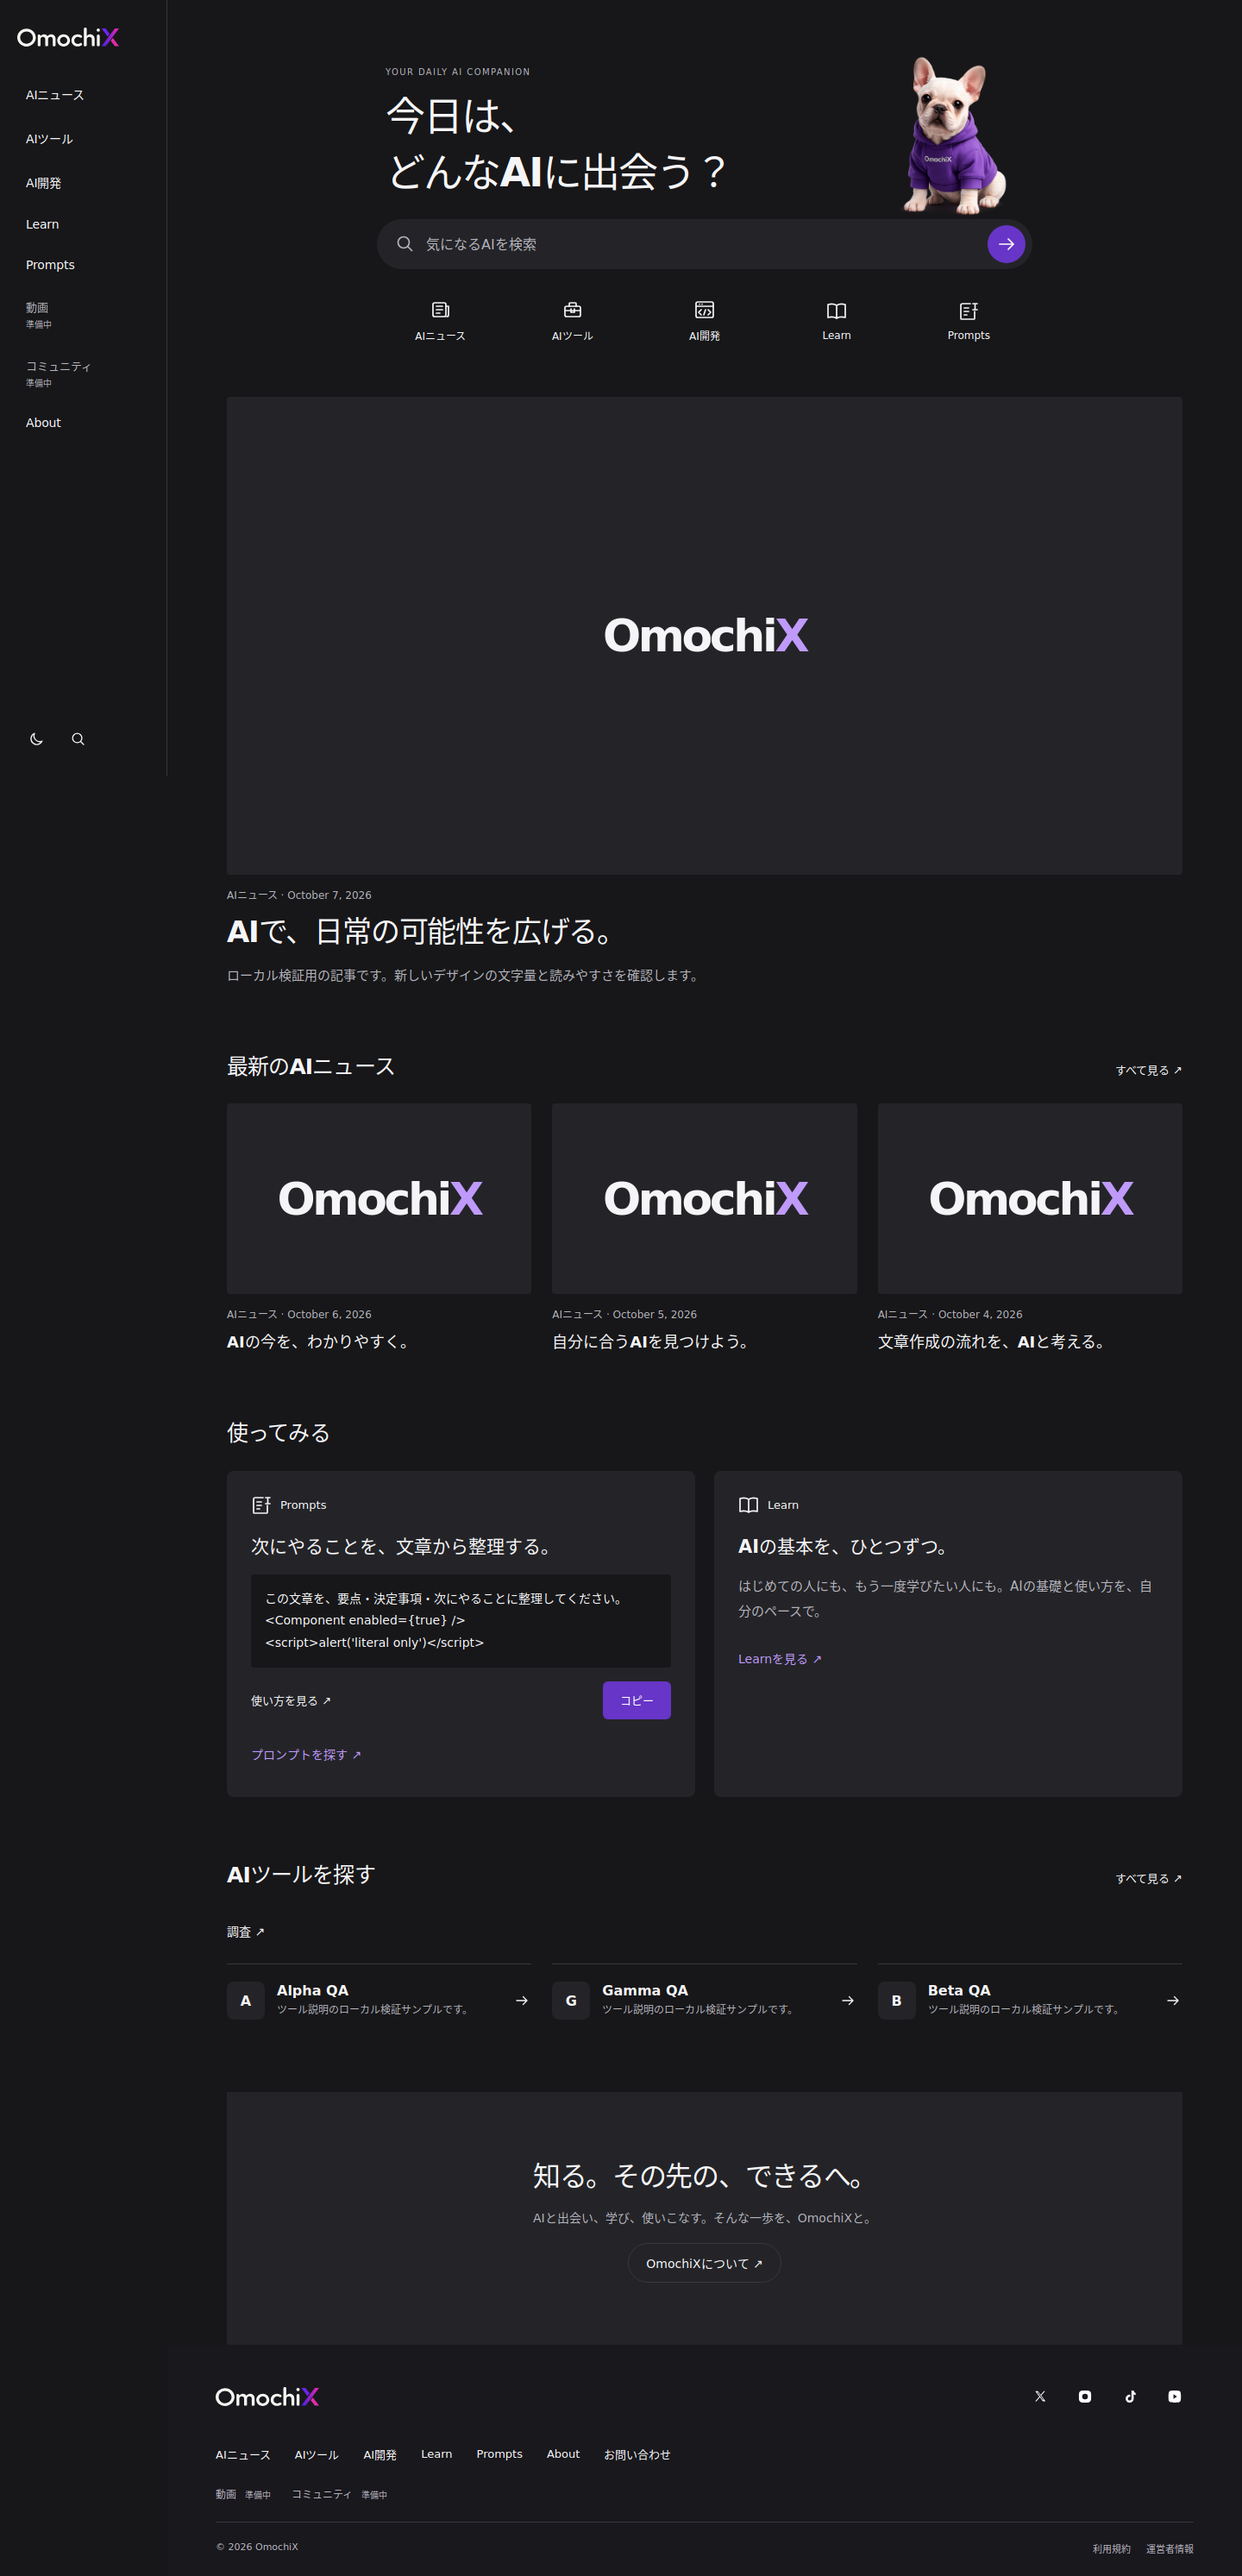
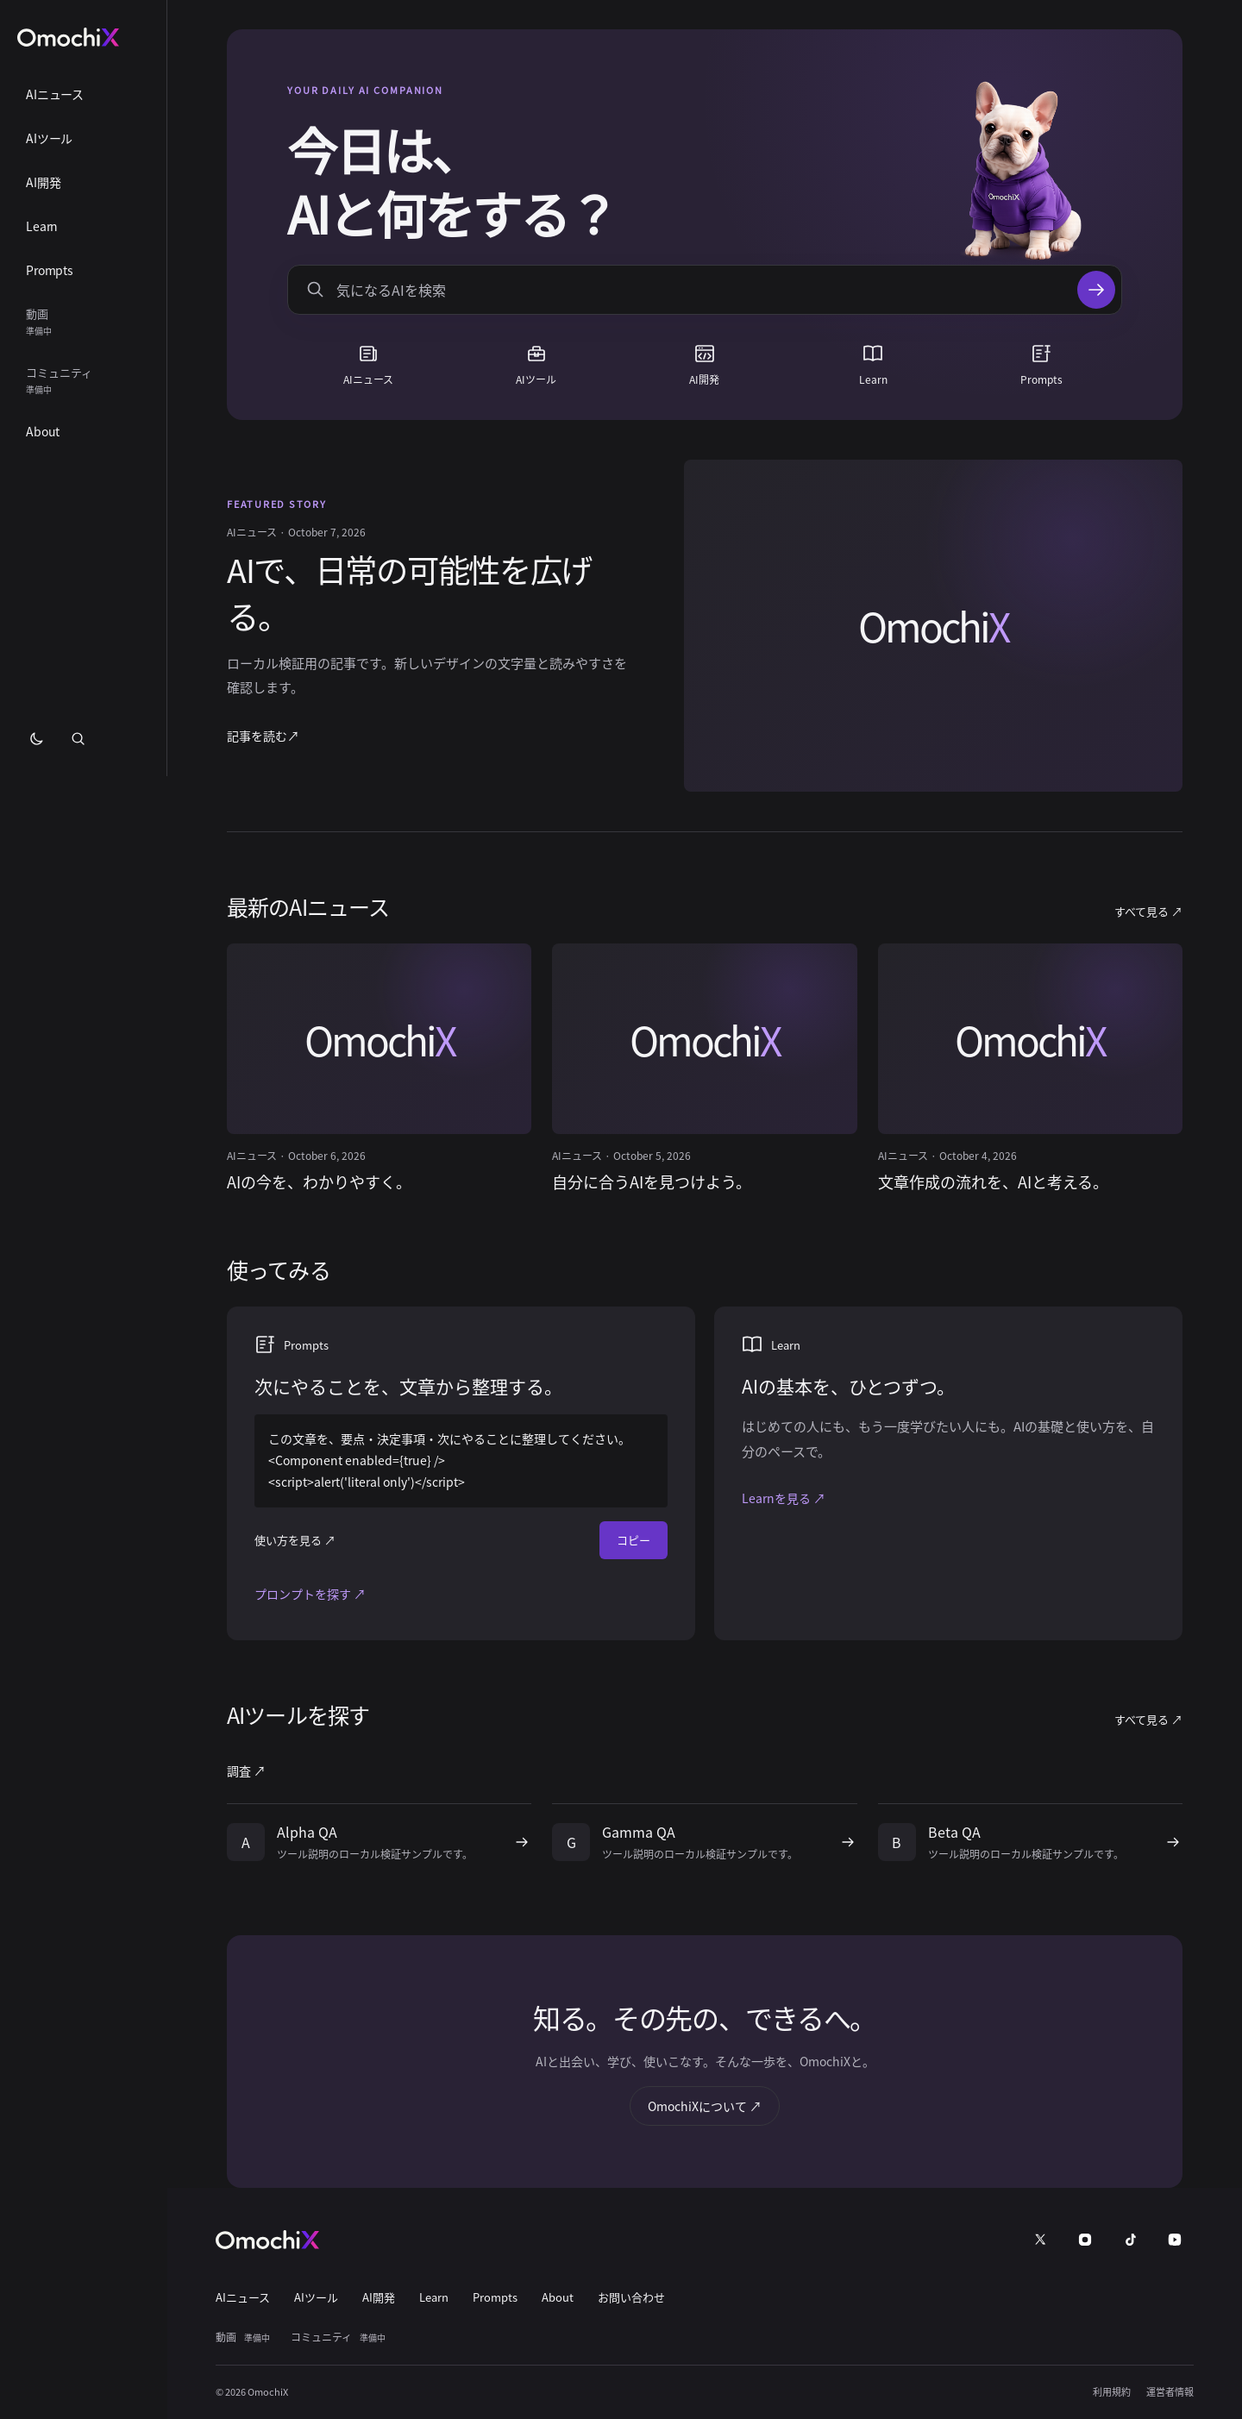
refine homepage hierarchy and mobile hero

diff --git a/wp-theme/omochix-theme/assets/css/editorial-home.css b/wp-theme/omochix-theme/assets/css/editorial-home.css
@@ -3,7 +3,8 @@ body.omx-editorial {
     --ed-bg: #fff;
     --ed-text: #202023;
     --ed-muted: #65656e;
-    --ed-surface: #f5f5f7;
+    --ed-surface: #f6f5f8;
+    --ed-lilac: #f1eafd;
     --ed-line: #e9e9ec;
     --ed-accent: #6735c7;
     background: var(--ed-bg);
@@ -14,7 +15,8 @@ body.omx-editorial {
     --ed-bg: #171719;
     --ed-text: #f5f5f7;
     --ed-muted: #b4b4bd;
-    --ed-surface: #242428;
+    --ed-surface: #242329;
+    --ed-lilac: #292235;
     --ed-line: #37373d;
     --ed-accent: #bf9afa;
 }
@@ -29,38 +31,43 @@ body.omx-editorial {
 .ed-main h1, .ed-main h2, .ed-main h3, .ed-main p { margin: 0; }
 .ed-main a:hover { text-decoration: underline; text-underline-offset: .22em; }
 .ed-main .ed-icon { width: 24px; height: 24px; flex: 0 0 auto; }
-.ed-hero { max-width: 760px; margin: 0 auto; padding: 64px 0 54px; }
-.ed-hero-heading { display: grid; grid-template-columns: minmax(0, 1fr) 160px; align-items: end; gap: 24px; padding: 0 10px; }
-.ed-hero h1 { font-size: clamp(30px, 3.7vw, 46px); line-height: 1.4; font-weight: 560; letter-spacing: -.04em; overflow-wrap: anywhere; padding-bottom: 22px; }
-.ed-eyebrow { font-size: 10px; letter-spacing: .14em; color: var(--ed-muted); margin-bottom: 14px !important; }
-.ed-mascot { display: block; width: 160px; height: 190px; object-fit: contain; object-position: bottom; }
-.ed-search { display: flex; align-items: center; gap: 12px; min-height: 58px; padding: 6px 7px 6px 20px; background: var(--ed-surface); border: 1px solid transparent; border-radius: 32px; }
+.ed-hero { position: relative; max-width: none; margin: 34px auto 0; padding: clamp(30px, 4vw, 58px) clamp(26px, 5vw, 70px) 28px; background: radial-gradient(circle at 81% 18%, rgba(129,78,215,.12), transparent 36%), var(--ed-lilac); border-radius: 18px; overflow: hidden; }
+.ed-hero-heading { display: grid; grid-template-columns: minmax(0, 1fr) 230px; align-items: end; gap: 32px; padding: 0; }
+.ed-hero h1 { font-size: clamp(36px, 4.3vw, 58px); line-height: 1.28; font-weight: 650; letter-spacing: -.04em; overflow-wrap: anywhere; padding-bottom: 22px; }
+.ed-eyebrow { font-size: 11px; letter-spacing: .17em; color: var(--ed-accent); font-weight: 700; margin-bottom: 24px !important; }
+.ed-mascot { display: block; width: 230px; height: 215px; object-fit: contain; object-position: bottom; }
+.ed-search { display: flex; align-items: center; gap: 12px; min-height: 58px; padding: 6px 7px 6px 20px; background: var(--ed-bg); border: 1px solid var(--ed-line); border-radius: 14px; box-shadow: 0 9px 30px rgba(48,25,79,.06); }
 .ed-search:focus-within { border-color: var(--ed-accent); }
 .ed-search > svg { color: var(--ed-muted); width: 20px; }
 .ed-search input { flex: 1; min-width: 0; width: 100%; background: transparent; border: 0; color: var(--ed-text); font-size: 16px; padding: 8px 0; }
 .ed-search input::placeholder { color: var(--ed-muted); opacity: 1; }
 .ed-search button { display: grid; place-items: center; border: 0; border-radius: 50%; width: 44px; height: 44px; flex: 0 0 44px; cursor: pointer; background: #6735c7; color: white; }
-.ed-categories { display: grid; grid-template-columns: repeat(5, minmax(0, 1fr)); margin-top: 26px; gap: 6px; }
-.ed-categories > * { display: flex; flex-direction: column; align-items: center; justify-content: center; gap: 9px; min-height: 68px; padding: 4px; font-size: 12px; }
+.ed-categories { display: grid; grid-template-columns: repeat(5, minmax(0, 1fr)); margin-top: 22px; gap: 8px; }
+.ed-categories > * { display: flex; flex-direction: column; align-items: center; justify-content: center; gap: 9px; min-height: 72px; padding: 8px; font-size: 12px; border-radius: 10px; }
+.ed-categories a:hover { background: rgba(108, 59, 199, .09); }
 .ed-categories small { font-size: 10px; }
 .ed-unavailable { color: var(--ed-muted); }
-.ed-section { margin-top: 72px; }
+.ed-section { margin-top: 68px; }
 .ed-section-heading { display: flex; align-items: baseline; justify-content: space-between; gap: 20px; margin-bottom: 24px; }
 .ed-section-heading h2 { font-size: 25px; line-height: 1.5; font-weight: 580; letter-spacing: -.035em; }
 .ed-section-heading > a { font-size: 13px; flex-shrink: 0; }
-.ed-media { display: block; overflow: hidden; background: var(--ed-surface); border-radius: 4px; aspect-ratio: 16 / 10; }
+.ed-media { display: block; overflow: hidden; background: var(--ed-surface); border-radius: 8px; aspect-ratio: 16 / 10; }
 .ed-media img { display: block; width: 100%; height: 100%; object-fit: cover; }
-.ed-feature-media { aspect-ratio: 2 / 1; }
-.ed-media-fallback { display: flex; align-items: center; justify-content: center; height: 100%; font-size: clamp(24px, 5vw, 52px); letter-spacing: -.065em; font-weight: 600; }
+.ed-feature { display: grid; grid-template-columns: minmax(0, .9fr) minmax(0, 1.1fr); gap: clamp(28px, 4vw, 58px); align-items: center; padding: 46px 0; border-bottom: 1px solid var(--ed-line); }
+.ed-feature-media { grid-column: 2; grid-row: 1; aspect-ratio: 3 / 2; }
+.ed-feature-copy { grid-column: 1; grid-row: 1; }
+.ed-feature-kicker { font-size: 11px; letter-spacing: .16em; font-weight: 700; color: var(--ed-accent); }
+.ed-feature-link { display: inline-flex; align-items: center; min-height: 44px; margin-top: 20px; font-size: 14px; font-weight: 600; }
+.ed-media-fallback { display: flex; align-items: center; justify-content: center; height: 100%; font-size: clamp(24px, 4vw, 46px); letter-spacing: -.065em; font-weight: 600; background: radial-gradient(circle at 78% 24%, rgba(124,72,215,.16), transparent 32%), linear-gradient(140deg, var(--ed-surface), var(--ed-lilac)); }
 .ed-media-fallback > span { color: var(--ed-accent); }
 .ed-meta { color: var(--ed-muted); font-size: 12px; line-height: 1.6; margin: 15px 0 7px !important; }
-.ed-feature h2 { max-width: 940px; font-size: clamp(24px, 2.8vw, 34px); line-height: 1.5; letter-spacing: -.035em; font-weight: 580; overflow-wrap: anywhere; }
-.ed-excerpt { margin-top: 12px !important; color: var(--ed-muted); font-size: 15px; line-height: 1.85; max-width: 800px; }
+.ed-feature h2 { max-width: 940px; font-size: clamp(26px, 2.6vw, 38px); line-height: 1.45; letter-spacing: -.035em; font-weight: 580; overflow-wrap: anywhere; }
+.ed-excerpt { margin-top: 14px !important; color: var(--ed-muted); font-size: 15px; line-height: 1.85; max-width: 800px; }
 .ed-stories { display: grid; grid-template-columns: repeat(3, minmax(0, 1fr)); gap: 24px; }
 .ed-story h3 { font-size: 18px; line-height: 1.65; font-weight: 570; overflow-wrap: anywhere; }
 .ed-story a { display: block; }
 .ed-practice { display: grid; grid-template-columns: repeat(2, minmax(0, 1fr)); gap: 22px; }
-.ed-practice-card { background: var(--ed-surface); border-radius: 8px; padding: 28px; min-width: 0; }
+.ed-practice-card { background: var(--ed-surface); border-radius: 12px; padding: 32px; min-width: 0; }
 .ed-kicker { display: flex; align-items: center; gap: 10px; font-size: 13px; margin-bottom: 20px !important; }
 .ed-practice h3 { font-size: 21px; line-height: 1.55; font-weight: 560; margin-bottom: 16px; }
 .ed-practice p:not(.ed-kicker):not(.sr-only) { font-size: 15px; line-height: 1.9; color: var(--ed-muted); }
@@ -78,7 +85,7 @@ body.omx-editorial {
 .ed-tool-initial { background: var(--ed-surface); width: 44px; height: 44px; border-radius: 8px; display: grid; place-items: center; font-weight: 600; }
 .ed-tool > .ed-icon { width: 18px; }
 .ed-empty { color: var(--ed-muted); padding: 32px 0; line-height: 1.8; }
-.ed-about { text-align: center; padding: 72px 20px; margin-top: 64px; background: var(--ed-surface); }
+.ed-about { text-align: center; padding: 72px 20px; margin-top: 64px; background: var(--ed-lilac); border-radius: 16px; }
 .ed-about h2 { font-size: clamp(23px, 3vw, 32px); font-weight: 550; letter-spacing: -.04em; }
 .ed-about p { font-size: 14px; color: var(--ed-muted); line-height: 1.8; margin: 16px 0; }
 .ed-about a { display: inline-block; padding: 12px 20px; border: 1px solid var(--ed-line); border-radius: 24px; font-size: 14px; }
@@ -111,24 +118,29 @@ body.omx-editorial {
 @media (max-width: 1080px) {
     .omx-editorial .site-header__actions { display: flex; margin-right: 44px; }
     .omx-editorial .primary-nav { top: 76px; }
-    .ed-hero { padding-top: 32px; }
+    .ed-hero { margin-top: 24px; }
+    .ed-feature { grid-template-columns: minmax(0, 1fr) minmax(0, 1fr); }
 }
 @media (max-width: 600px) {
     .ed-main { padding-inline: 22px; }
-    .ed-hero { padding: 26px 0 32px; }
-    .ed-hero-heading { grid-template-columns: minmax(0, 1fr) 90px; gap: 10px; padding: 0; }
-    .ed-eyebrow { display: none; }
-    .ed-hero h1 { font-size: clamp(22px, 5.5vw, 29px); line-height: 1.45; padding-bottom: 20px; }
-    .ed-mascot { width: 90px; height: 125px; }
+    .ed-hero { margin: 14px -8px 0; padding: 28px 20px 22px; border-radius: 16px; }
+    .ed-feature { display: flex; flex-direction: column; align-items: stretch; gap: 0; padding: 32px 0; }
+    .ed-feature-media { aspect-ratio: 16 / 9; }
+    .ed-feature-copy { padding-top: 18px; }
+    .ed-feature-kicker { font-size: 10px; }
+    .ed-hero-heading { grid-template-columns: minmax(0, 1fr) 112px; gap: 6px; padding: 0; }
+    .ed-eyebrow { font-size: 9px; margin-bottom: 16px !important; }
+    .ed-hero h1 { font-size: clamp(25px, 6.6vw, 32px); line-height: 1.38; padding-bottom: 20px; }
+    .ed-mascot { width: 112px; height: 146px; }
     .ed-search { min-height: 54px; padding-left: 14px; gap: 8px; }
-    .ed-categories { margin-top: 22px; gap: 0; }
+    .ed-categories { margin-top: 18px; gap: 0; }
     .ed-categories > * { font-size: 11px; gap: 8px; padding-inline: 1px; min-height: 66px; }
     .ed-categories .ed-icon { width: 23px; height: 23px; }
     .ed-section { margin-top: 44px; }
     .ed-section-heading { margin-bottom: 18px; gap: 10px; }
     .ed-section-heading h2 { font-size: 21px; }
     .ed-section-heading > a { font-size: 12px; }
-    .ed-feature-media { aspect-ratio: 16 / 10; }
+    .ed-feature-media { aspect-ratio: 16 / 9; }
     .ed-feature h2 { font-size: 24px; }
     .ed-excerpt { font-size: 14px; }
     .ed-stories { display: flex; flex-direction: column; gap: 22px; }

diff --git a/wp-theme/omochix-theme/front-page.php b/wp-theme/omochix-theme/front-page.php
@@ -13,7 +13,7 @@ $about_url = omochix_get_published_page_url('about');
 <main class="ed-main" id="main-content">
     <section class="ed-hero" aria-labelledby="ed-title">
         <div class="ed-hero-heading">
-            <div><p class="ed-eyebrow">YOUR DAILY AI COMPANION</p><h1 id="ed-title"><?php esc_html_e('今日は、', 'omochix'); ?><br><?php esc_html_e('どんなAIに出会う？', 'omochix'); ?></h1></div>
+            <div><p class="ed-eyebrow">YOUR DAILY AI COMPANION</p><h1 id="ed-title"><?php esc_html_e('今日は、', 'omochix'); ?><br><?php esc_html_e('AIと何をする？', 'omochix'); ?></h1></div>
             <?php if (file_exists(get_theme_file_path('/assets/img/omochi-hero.webp'))) : ?>
                 <img class="ed-mascot" src="<?php echo esc_url(get_theme_file_uri('/assets/img/omochi-hero.webp')); ?>" width="200" height="240" alt="<?php esc_attr_e('紫のパーカーを着た、おもち', 'omochix'); ?>" fetchpriority="high" decoding="async">
             <?php endif; ?>
@@ -38,9 +38,13 @@ $about_url = omochix_get_published_page_url('about');
     <?php if ($ed['feature']) : $feature = $ed['feature'][0]; ?>
         <section class="ed-feature" aria-labelledby="ed-feature-title">
             <a class="ed-media ed-feature-media" href="<?php echo esc_url(get_permalink($feature)); ?>" tabindex="-1" aria-hidden="true"><?php omochix_editorial_media($feature, 'full', true); ?></a>
-            <p class="ed-meta"><?php echo esc_html(omochix_editorial_category($feature)); ?> <span aria-hidden="true">·</span> <time datetime="<?php echo esc_attr(get_the_date(DATE_W3C, $feature)); ?>"><?php echo esc_html(get_the_date('', $feature)); ?></time></p>
-            <h2 id="ed-feature-title"><a href="<?php echo esc_url(get_permalink($feature)); ?>"><?php echo esc_html(get_the_title($feature)); ?></a></h2>
-            <p class="ed-excerpt"><?php echo esc_html(wp_trim_words(wp_strip_all_tags(get_the_excerpt($feature)), 70, '…')); ?></p>
+            <div class="ed-feature-copy">
+                <p class="ed-feature-kicker"><?php esc_html_e('FEATURED STORY', 'omochix'); ?></p>
+                <p class="ed-meta"><?php echo esc_html(omochix_editorial_category($feature)); ?> <span aria-hidden="true">·</span> <time datetime="<?php echo esc_attr(get_the_date(DATE_W3C, $feature)); ?>"><?php echo esc_html(get_the_date('', $feature)); ?></time></p>
+                <h2 id="ed-feature-title"><a href="<?php echo esc_url(get_permalink($feature)); ?>"><?php echo esc_html(get_the_title($feature)); ?></a></h2>
+                <p class="ed-excerpt"><?php echo esc_html(wp_trim_words(wp_strip_all_tags(get_the_excerpt($feature)), 70, '…')); ?></p>
+                <a class="ed-feature-link" href="<?php echo esc_url(get_permalink($feature)); ?>"><?php esc_html_e('記事を読む', 'omochix'); ?> <span aria-hidden="true">↗</span></a>
+            </div>
         </section>
     <?php endif; ?>
 

diff --git a/docs/Editorial-Home-Refresh.md b/docs/Editorial-Home-Refresh.md
@@ -5,7 +5,7 @@
 
 ## 変更内容
 
-余白を生かした検索中心のヒーロー、カテゴリー別SVGアイコン、注目記事、最新ニュース、Prompts/Learn、AIツール、紹介、シックなフッターに再構成。
+余白を生かした検索中心の紫を帯びたヒーロー、カテゴリー別SVGアイコン、注目記事、最新ニュース、Prompts/Learn、AIツール、紹介、シックなフッターに再構成。スマホの短い2行見出しと、PCの文章・画像を横に並べた注目記事で、最初に見る順序を明確にした。
 PCでは左ナビゲーション、1080px以下は既存モバイルメニューを利用。紫はアクセントとし、既存テーマ切替に合わせて明暗両モードに対応する。
 おもちには既存の `omochi-hero.webp` を使用。フッターにはおもちを置かず、既存の公式X・Instagram・TikTok・YouTubeリンクとロゴを再利用する。
 
